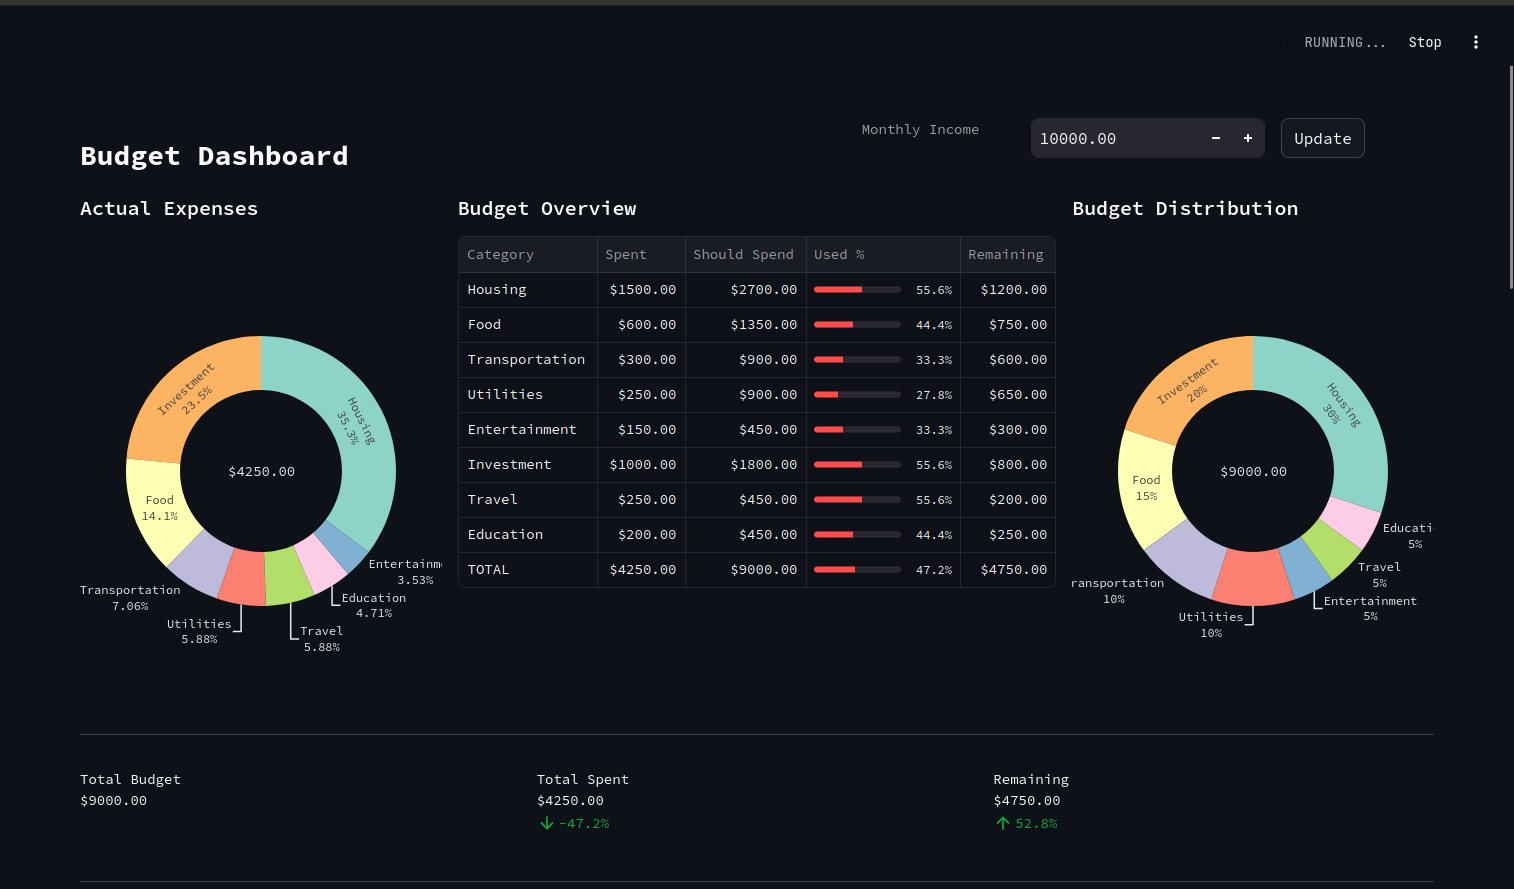
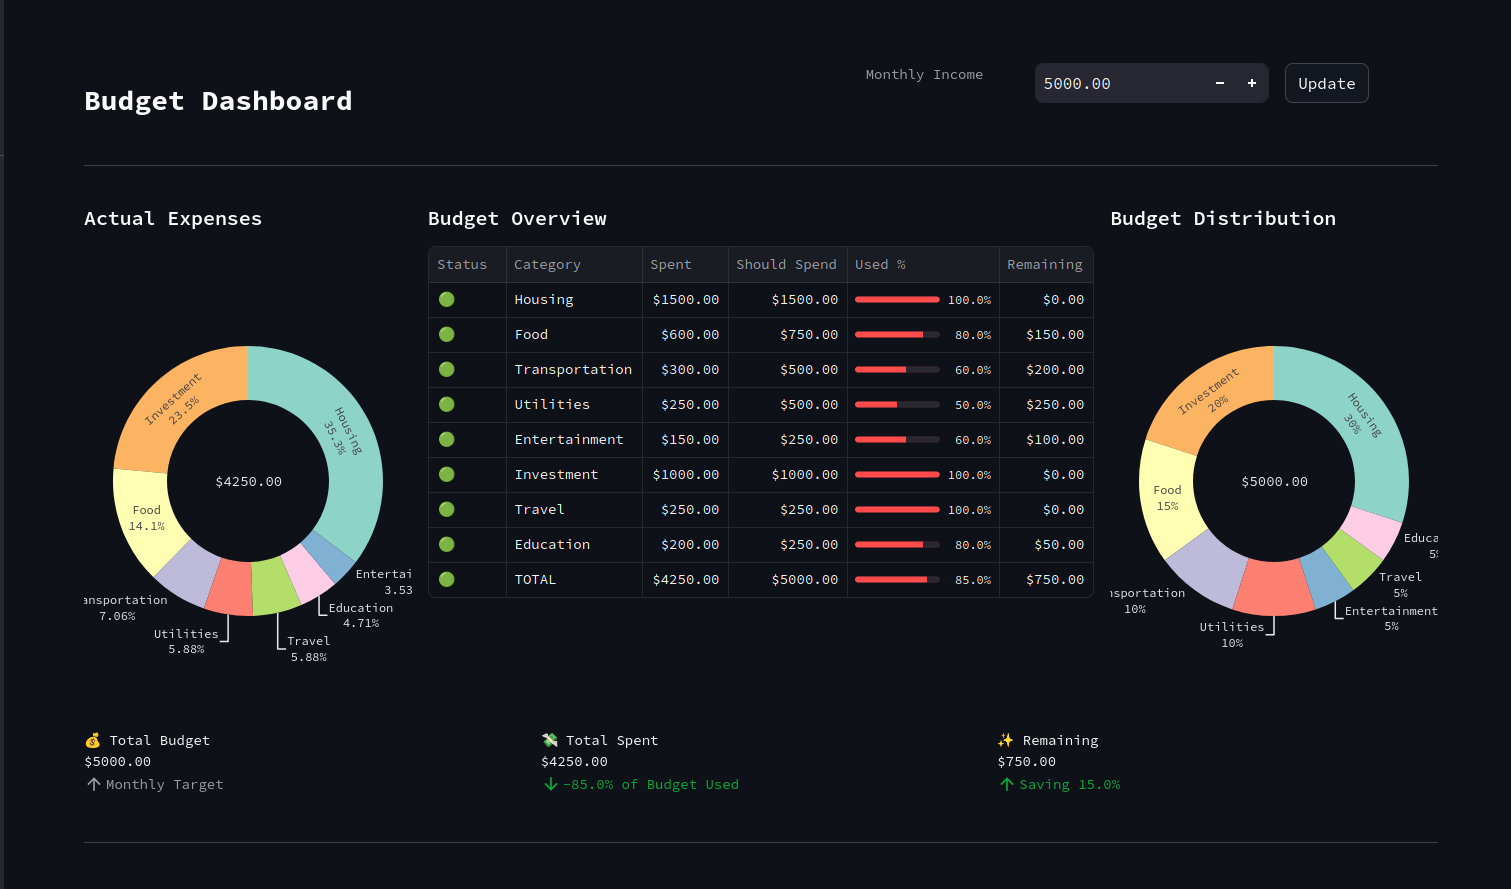
enhace header and overview UI

diff --git a/src/pages/budget_dashboard.py b/src/pages/budget_dashboard.py
@@ -193,7 +193,7 @@ def render_overview_row():
         return
 
     # Update column proportions to 27.5/45/27.5
-    col1, col2, col3 = st.columns([27.5, 45, 27.5])
+    col1, col2, col3 = st.columns([25, 50, 25])
 
     # Column 1: Expenses Donut Chart (30%)
     with col1:
@@ -251,8 +251,12 @@ def render_overview_row():
             total_spent += spent
             total_should_spend += should_spend
 
+            # Calculate status and color
+            status = "🟢" if used_percentage <= 100 else "🔴"
+
             overview_data.append(
                 {
+                    "Status": status,
                     "Budget": category,
                     "Spent": spent,
                     "Should Spend": should_spend,
@@ -267,6 +271,7 @@ def render_overview_row():
         )
         overview_data.append(
             {
+                "Status": "🟢" if total_used <= 100 else "🔴",
                 "Budget": "TOTAL",
                 "Spent": total_spent,
                 "Should Spend": total_should_spend,
@@ -277,9 +282,15 @@ def render_overview_row():
 
         # Convert to DataFrame and display with enhanced styling
         df = pd.DataFrame(overview_data)
+
         st.dataframe(
             df,
             column_config={
+                "Status": st.column_config.TextColumn(
+                    "Status",
+                    help="Budget status indicator",
+                    width="small",
+                ),
                 "Budget": st.column_config.TextColumn(
                     "Category",
                     help="Budget category",
@@ -348,30 +359,72 @@ def render_overview_row():
         )
         st.plotly_chart(fig, use_container_width=True)
 
-    # Monthly Summary below the three components
-    st.markdown("---")
+    # Add custom CSS for summary metrics
+    st.markdown(
+        """
+        <style>
+            [data-testid="metric-container"] {
+                background-color: #262730;
+                padding: 1rem;
+                border-radius: 0.5rem;
+                box-shadow: 0 2px 4px rgba(0,0,0,0.1);
+            }
+            
+            [data-testid="metric-container"] > div {
+                width: 100%;
+            }
+            
+            [data-testid="metric-container"] label {
+                display: flex;
+                align-items: center;
+                justify-content: center;
+                text-transform: uppercase;
+                font-size: 0.875rem !important;
+                font-weight: 600;
+                letter-spacing: 0.05em;
+            }
+            
+            /* Metric value styling */
+            [data-testid="metric-container"] div[data-testid="metric-value"] {
+                font-size: 1.875rem !important;
+                font-weight: 700;
+                font-family: 'JetBrains Mono', monospace !important;
+            }
+            
+            /* Delta value styling */
+            [data-testid="metric-container"] div[data-testid="metric-delta"] {
+                font-size: 0.875rem !important;
+                font-weight: 500;
+            }
+        </style>
+    """,
+        unsafe_allow_html=True,
+    )
+
     summary_col1, summary_col2, summary_col3 = st.columns(3)
 
     with summary_col1:
         st.metric(
-            "Total Budget",
+            "💰 Total Budget",
             f"${total_should_spend:.2f}",
-            delta=None,
+            delta=f"Monthly Target" if total_should_spend > 0 else None,
+            delta_color="off",
         )
     with summary_col2:
         st.metric(
-            "Total Spent",
+            "💸 Total Spent",
             f"${total_spent:.2f}",
-            delta=f"{-total_used:.1f}%" if total_used > 0 else None,
+            delta=f"{-total_used:.1f}% of Budget Used" if total_used > 0 else None,
             delta_color="inverse",
         )
     with summary_col3:
         total_remaining = total_should_spend - total_spent
         st.metric(
-            "Remaining",
+            "✨ Remaining",
             f"${total_remaining:.2f}",
             delta=(
-                f"{(total_remaining/total_should_spend)*100:.1f}%"
+                f"{'Saving' if total_remaining >= 0 else 'Over'} "
+                f"{abs((total_remaining/total_should_spend)*100):.1f}%"
                 if total_should_spend > 0
                 else None
             ),
@@ -393,6 +446,7 @@ def render_budget_dashboard():
     with header_col2:
         render_salary_input()
 
+    st.markdown("---")  #
     # Overview Row
     render_overview_row()
 
